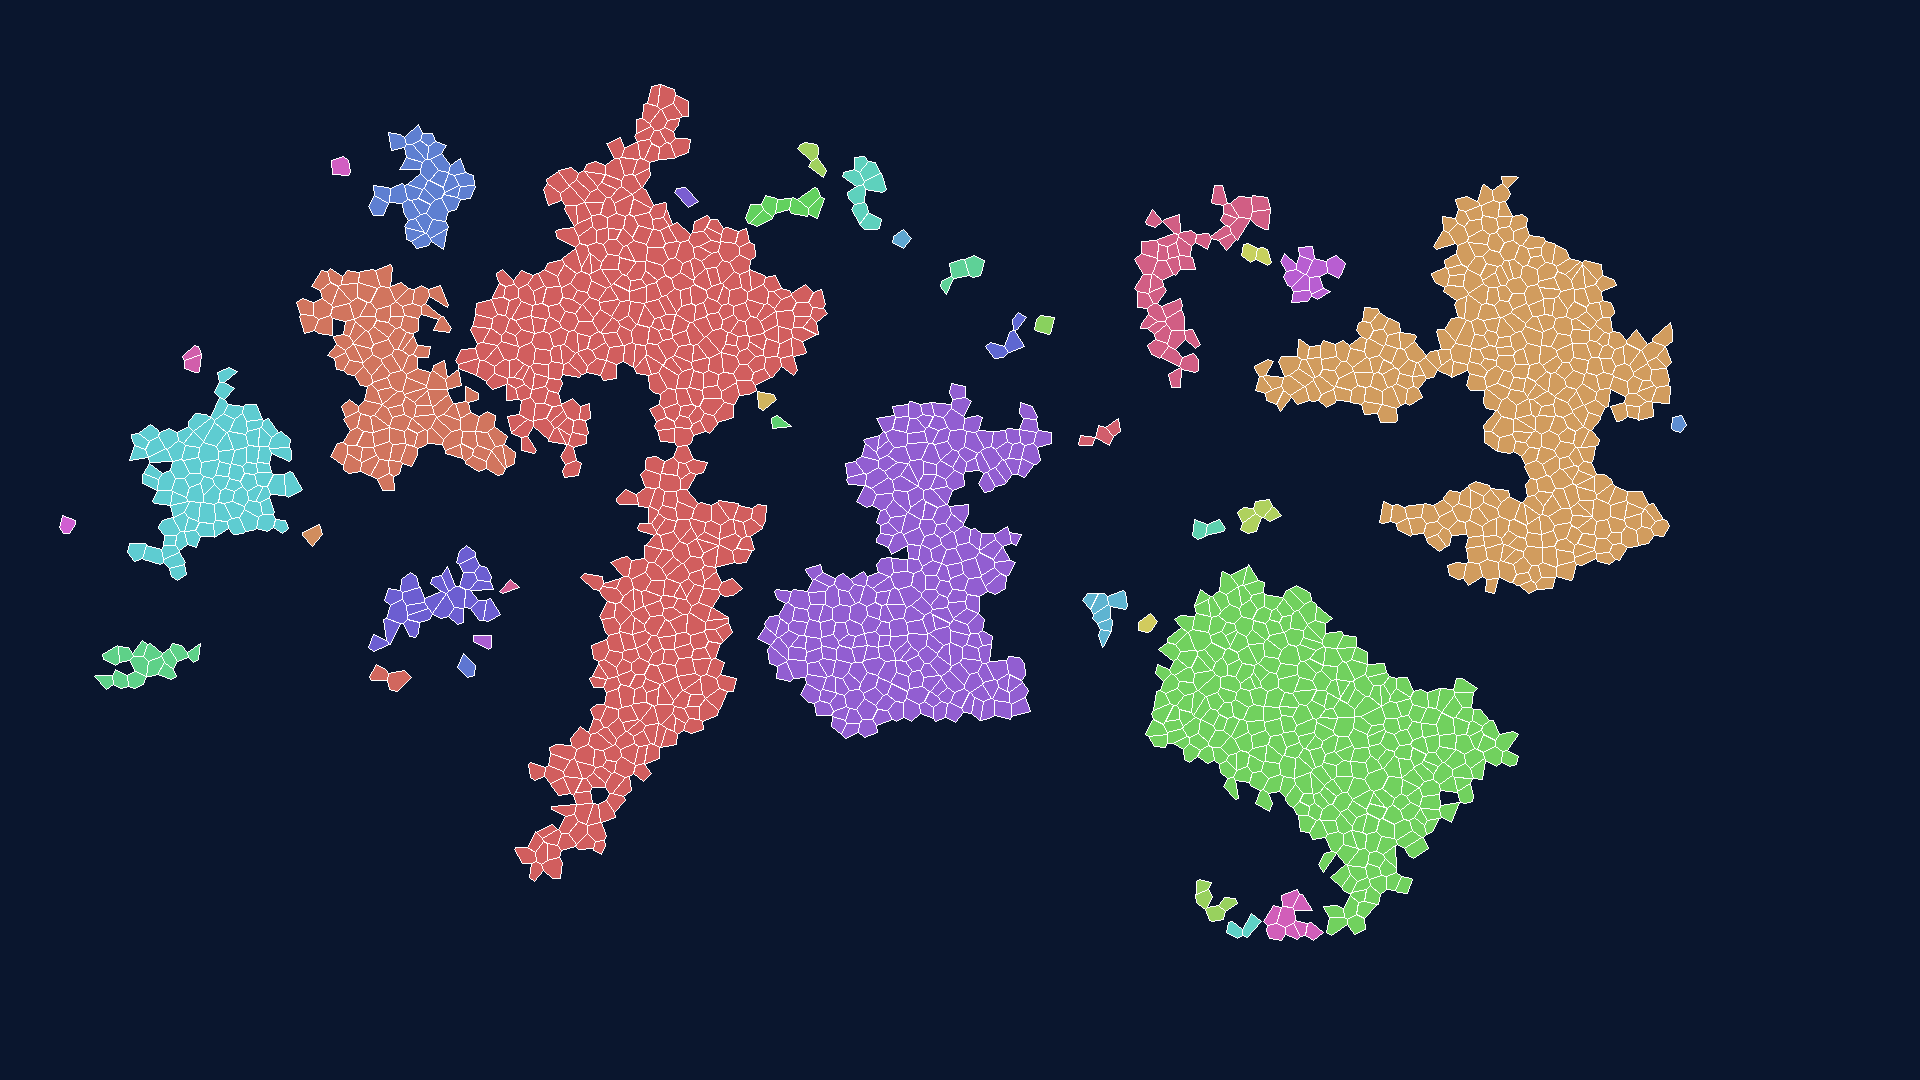
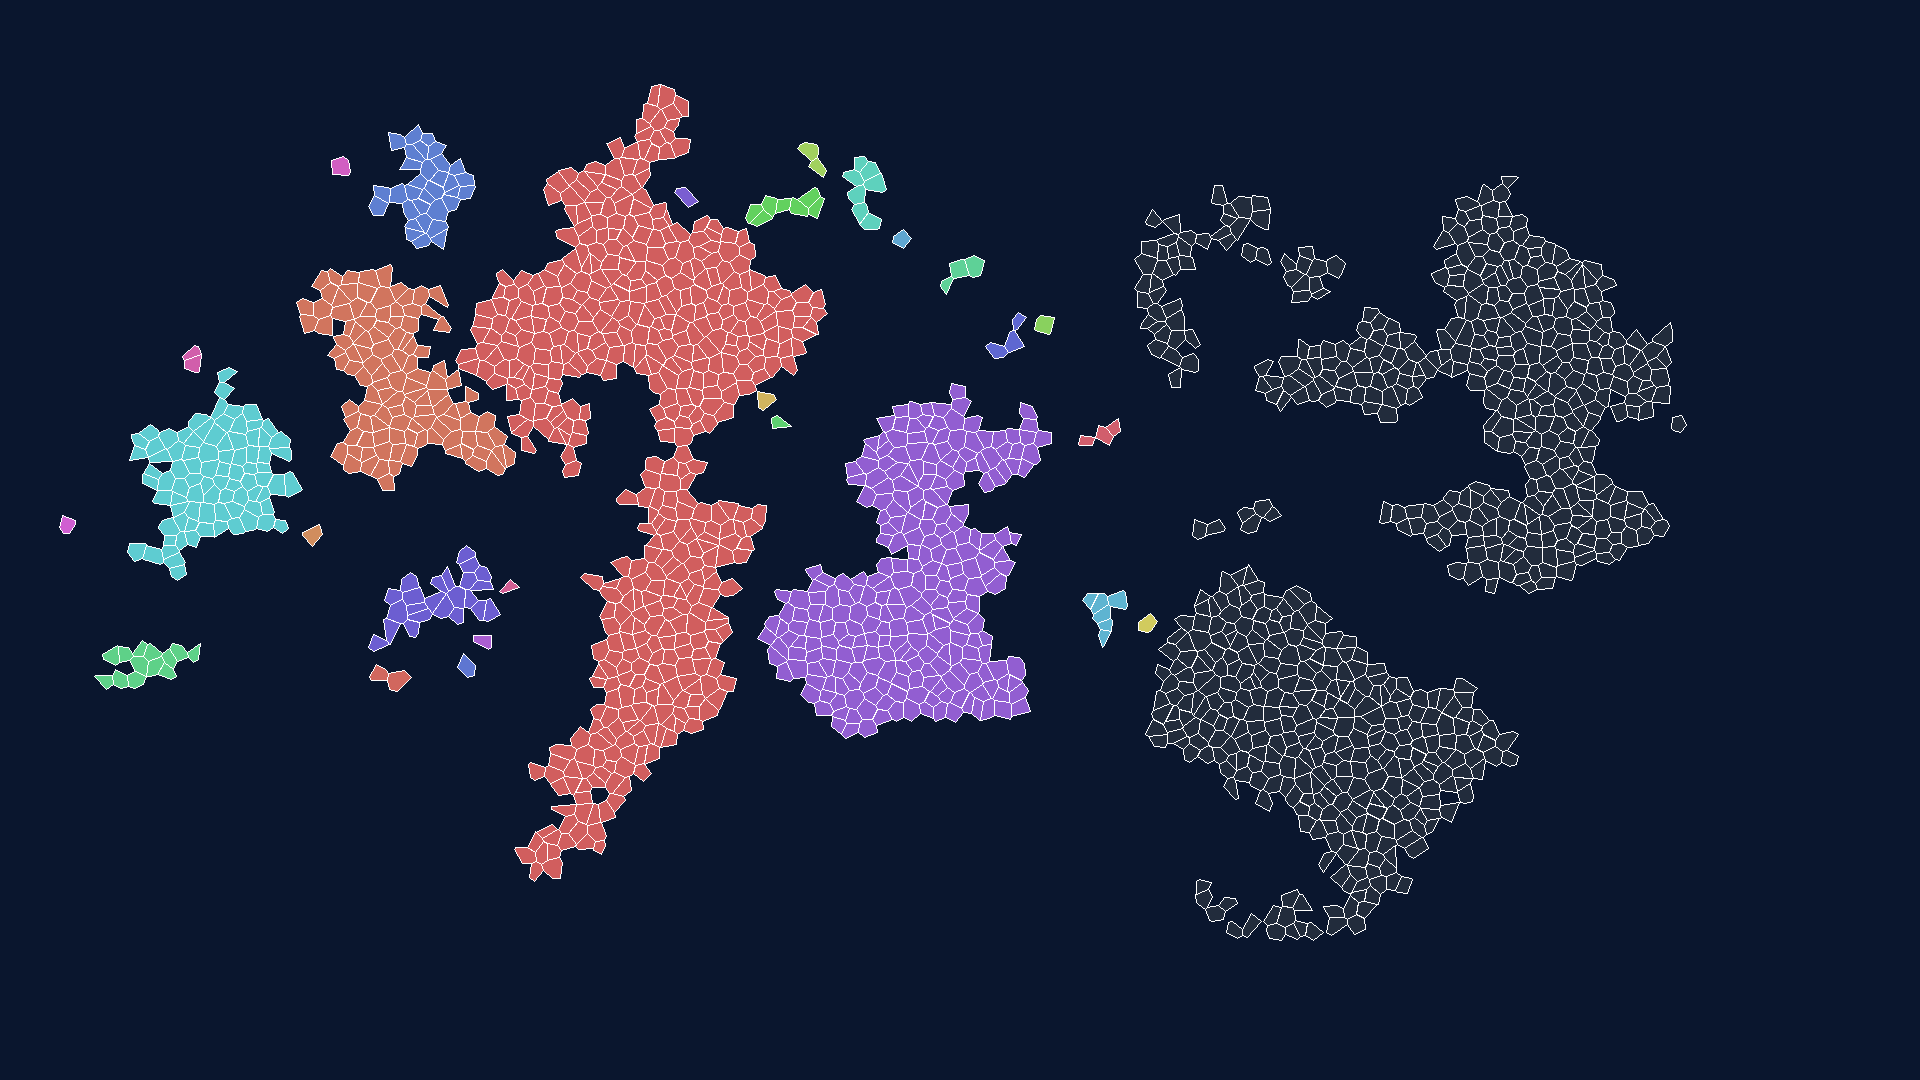
map: 卡尔特行政区地图v3——国家集中在中央+左侧大陆与群岛，右侧两块大陆迷雾化为未探明新大陆+南方航线东向

Changed region(s): [[0.5938, 0.1528, 0.875, 0.55], [0.5938, 0.5194, 0.8125, 0.8861], [0.625, 0.4583, 0.6875, 0.4889]]

diff --git a/grand_strategy/tools/render_admin.py b/grand_strategy/tools/render_admin.py
@@ -1,5 +1,5 @@
 # -*- coding: utf-8 -*-
-"""卡尔特行政区地图 v2：省份→大陆块→国家，13国配色 + 西侧未探明新大陆"""
+"""卡尔特行政区地图 v3：国家集中在中央+左侧大陆与群岛，右侧大陆迷雾化为未探明新大陆"""
 import json
 from collections import deque
 from PIL import Image, ImageDraw
@@ -13,9 +13,9 @@ info = data["info"]
 W, H = info["width"], info["height"]
 cells = data["cells"]["cells"]
 verts = data["cells"]["vertices"]
-vxy = (lambda i: (verts[i].get("p", [0, 0])[0], verts[i].get("p", [0, 0])[1]))
+vxy = lambda i: (verts[i].get("p", [0, 0])[0], verts[i].get("p", [0, 0])[1])
 cell_by_id = {c["i"]: c for c in cells}
-land_ids = [c["i"] for c in cells if c.get("h", 0) >= 20]  # 陆地判定：海拔 h>=20
+land_ids = [c["i"] for c in cells if c.get("h", 0) >= 20]
 
 # 省份聚簇
 prov_of = {}
@@ -33,7 +33,6 @@ for s in land_ids:
                 q.append(nb)
     pid += 1
 
-# 省份质心 + 单元格列表
 prov_cells = {}
 for cid in land_ids:
     prov_cells.setdefault(prov_of[cid], []).append(cid)
@@ -41,16 +40,14 @@ for cid in land_ids:
 def centroid(cids):
     xs, ys = [], []
     for cid in cids:
-        c = cell_by_id[cid]
-        pts = [vxy(i) for i in c["v"]]
+        pts = [vxy(i) for i in cell_by_id[cid]["v"]]
         xs.append(sum(p[0] for p in pts) / len(pts))
         ys.append(sum(p[1] for p in pts) / len(pts))
     return sum(xs) / len(xs), sum(ys) / len(ys)
 
-prov_cent = {p: centroid(cids) for p, cids in prov_cells.items()}
 prov_size = {p: len(cids) for p, cids in prov_cells.items()}
 
-# 大陆块 = 省份邻接组件
+# 大陆块
 prov_nbs = {}
 for p, cids in prov_cells.items():
     nbs = set()
@@ -86,7 +83,7 @@ for l, s in sorted(lm_size.items(), key=lambda x: -x[1]):
     cx, cy = lm_cent[l]
     print(f"  块{l}: {s}格 质心({cx:.0f},{cy:.0f}) 省份{len(lm_provs[l])}")
 
-# ---- 国家分配（启发式）----
+# ---- 国家分配：只在中央+左侧(x<0.6W)落国；右侧(x>=0.6W)为未探明新大陆 ----
 NATIONS = [
     ("申斯戈维克帝国", (150, 40, 45)),
     ("北境诸部联盟", (120, 140, 170)),
@@ -102,89 +99,93 @@ NATIONS = [
     ("凯森自由港", (210, 210, 220)),
     ("海峡三城邦", (230, 120, 160)),
 ]
+FOG = -1  # 未探明新大陆标记
+
 lm_sorted = sorted(lm_size.items(), key=lambda x: -x[1])
 assign = {}
-used = set()
-if lm_sorted:
-    assign[lm_sorted[0][0]] = 0
-    used.add(lm_sorted[0][0])
-for l, s in lm_sorted[1:]:
+for l, s in lm_sorted:
     cx, cy = lm_cent[l]
-    if cy < H * 0.32:
-        n = 1
+    if cx >= W * 0.6:
+        assign[l] = FOG
+        continue
+    if l == lm_sorted[0][0] or s >= 120:
+        assign[l] = 0  # 最大/最大之一 → 帝国
+    elif cy < H * 0.32:
+        assign[l] = 1
     elif cx < W * 0.42 and cy < H * 0.7:
-        n = 2
-    elif cx > W * 0.6 and cy < H * 0.72:
-        n = 3
+        assign[l] = 2
+    elif cx > W * 0.45 and cy < H * 0.72:
+        assign[l] = 3
     elif cy > H * 0.72:
-        n = 8
+        assign[l] = 8
     elif cx < W * 0.5:
-        n = 5
+        assign[l] = 5
     elif s < 30:
-        n = 9
+        assign[l] = 9
     else:
-        n = 6
-    assign[l] = n
+        assign[l] = 6
 
 prov_nation = {}
 for p, l in lm_of.items():
     prov_nation[p] = assign.get(l, 5)
 
-# 渲染（西侧扩展画新大陆）
-MARGIN = 620
-cw = W + MARGIN
-img = Image.new("RGB", (cw, H), (10, 22, 46))
+fog_provs = {p for p, l in lm_of.items() if assign.get(l) == FOG}
+print(f"未探明新大陆省份数: {len(fog_provs)}，国家省份数: {len(prov_cells) - len(fog_provs)}")
+
+# ---- 渲染 ----
+img = Image.new("RGB", (W, H), (10, 22, 46))
 d = ImageDraw.Draw(img)
 
-def shift(pts):
-    return [(x + MARGIN, y) for x, y in pts]
-
 for p, cids in prov_cells.items():
-    col = NATIONS[prov_nation[p]][1]
+    if prov_nation[p] == FOG:
+        col = (34, 44, 60)
+    else:
+        col = NATIONS[prov_nation[p]][1]
     for cid in cids:
         c = cell_by_id[cid]
-        pts = shift([vxy(i) for i in c["v"]])
+        pts = [vxy(i) for i in c["v"]]
         if len(pts) < 3:
             continue
         d.polygon(pts, fill=col)
         d.line(pts + [pts[0]], fill=(255, 255, 255), width=1)
 
+# 迷雾大陆：虚线描边 + 标签
+for p in fog_provs:
+    for cid in prov_cells[p]:
+        c = cell_by_id[cid]
+        pts = [vxy(i) for i in c["v"]]
+        if len(pts) < 3:
+            continue
+        d.line(pts + [pts[0]], fill=(120, 140, 160), width=2)
+
 # 国界加粗
 for p, cids in prov_cells.items():
+    if prov_nation[p] == FOG:
+        continue
     for cid in cids:
         c = cell_by_id[cid]
         for nb in c.get("c", []):
-            if nb in prov_of and prov_nation[prov_of[nb]] != prov_nation[p]:
-                pts = shift([vxy(i) for i in c["v"]])
+            if nb in prov_of and prov_nation.get(prov_of[nb], 5) != prov_nation[p]:
+                pts = [vxy(i) for i in c["v"]]
                 d.line(pts + [pts[0]], fill=(20, 20, 20), width=3)
 
-# 未探明新大陆（西侧，迷雾样式）
-fog = [(30, 420), (240, 380), (420, 470), (500, 640), (390, 830), (170, 860), (20, 720)]
-d.polygon(fog, fill=(40, 52, 68))
-d.line(fog + [fog[0]], fill=(160, 180, 200), width=2)
-for i in range(len(fog)):
-    a, b = fog[i], fog[(i + 1) % len(fog)]
-    n = 12
-    for k in range(1, n, 2):
-        t = k / n
-        d.ellipse([a[0] + (b[0]-a[0])*t - 3, a[1] + (b[1]-a[1])*t - 3,
-                   a[0] + (b[0]-a[0])*t + 3, a[1] + (b[1]-a[1])*t + 3], fill=(120, 140, 160))
-d.text((60, 620), "新大陆", fill=(220, 230, 240))
-d.text((40, 645), "（未探明）", fill=(180, 195, 210))
-d.line([(MARGIN + 100, H - 120), (MARGIN - 80, H - 300), (40, H - 380)], fill=(255, 230, 150), width=2)
-d.text((MARGIN + 110, H - 150), "南方航线（信风带）", fill=(255, 230, 150))
+# 南方航线（向左/右？新大陆在右侧 → 航线自左下向东）
+d.line([(int(W*0.25), H-90), (int(W*0.55), H-160), (int(W*0.78), H-220)], fill=(255, 230, 150), width=2)
+d.text((int(W*0.25), H-120), "南方航线（信风带）", fill=(255, 230, 150))
+d.text((int(W*0.72), 40), "新大陆（未探明）", fill=(170, 185, 205))
+d.text((int(W*0.72), 58), "无人之地 · 等待发现", fill=(150, 165, 185))
 
 # 图例
 lx, ly = 12, 14
 for i, (name, col) in enumerate(NATIONS):
     d.rectangle([lx, ly + i * 20, lx + 14, ly + i * 20 + 12], fill=col)
     d.text((lx + 18, ly + i * 20), name, fill=(230, 235, 240))
-d.text((lx, ly + len(NATIONS) * 20 + 4), "新大陆（未探明）· 不属任何国家", fill=(170, 185, 205))
+d.text((lx, ly + len(NATIONS) * 20 + 4), "右侧灰色大陆 = 未探明新大陆（无人国家）", fill=(170, 185, 205))
 
 img.save(OUT)
 print("已保存", OUT)
 
-# ---- 省份图（每省一色，不含新大陆边距）----
+# ---- 省份图 ----
 import colorsys
 pimg = Image.new("RGB", (W, H), (10, 22, 46))
 pd = ImageDraw.Draw(pimg)
@@ -196,7 +197,7 @@ def pcol(p):
         pal[p] = (int(r * 255), int(g * 255), int(b * 255))
     return pal[p]
 for p, cids in prov_cells.items():
-    col = pcol(p)
+    col = (34, 44, 60) if prov_nation[p] == FOG else pcol(p)
     for cid in cids:
         c = cell_by_id[cid]
         pts = [vxy(i) for i in c["v"]]
